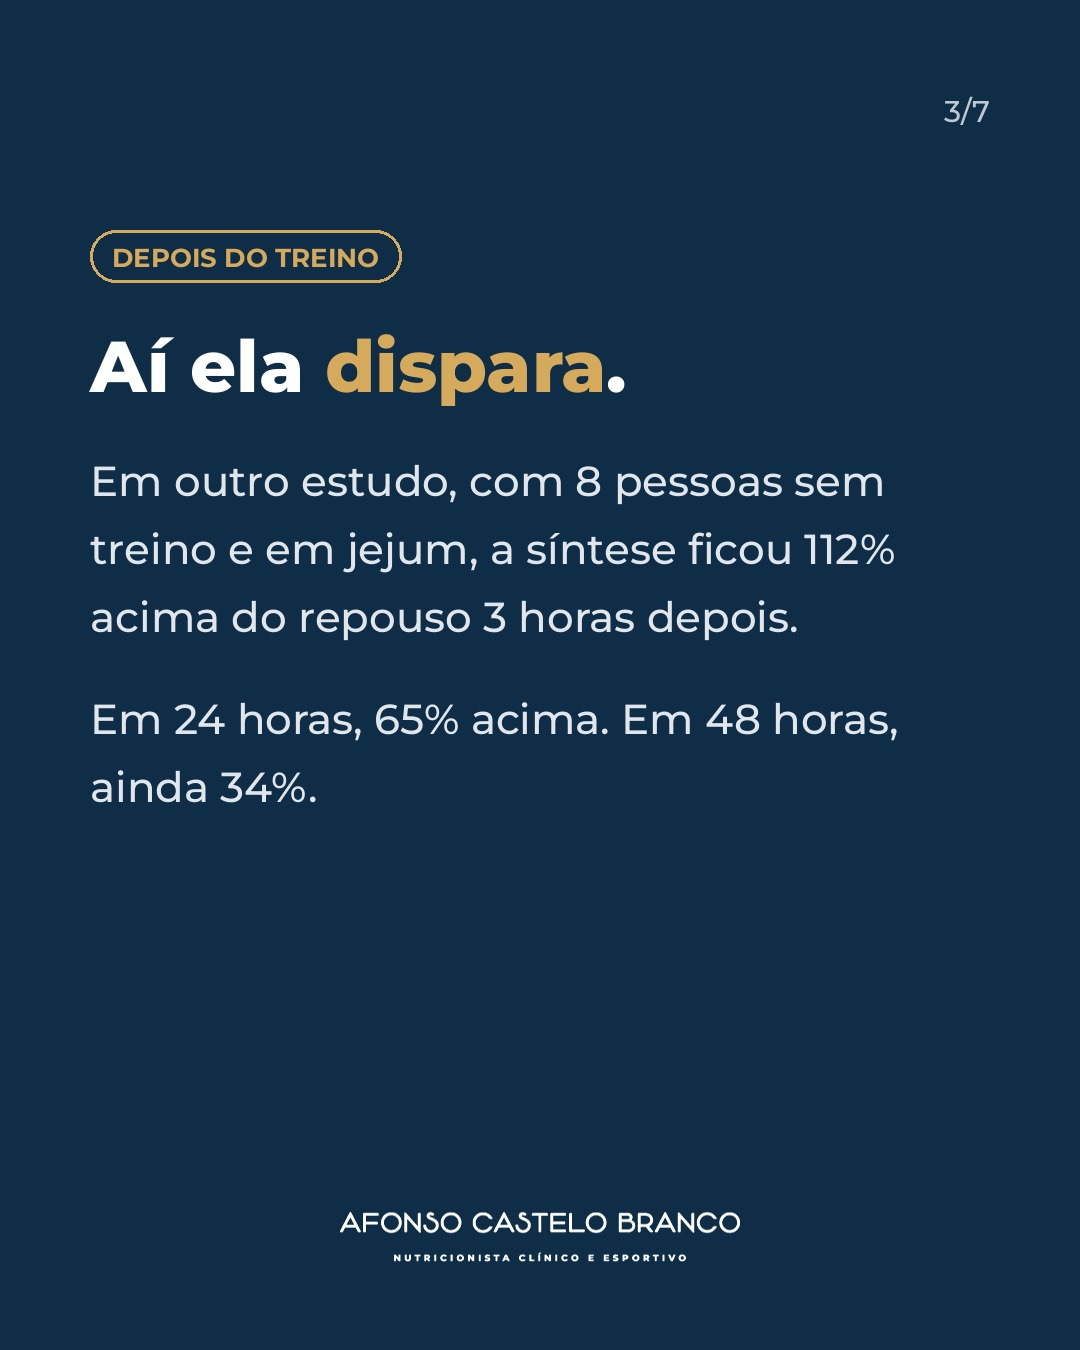
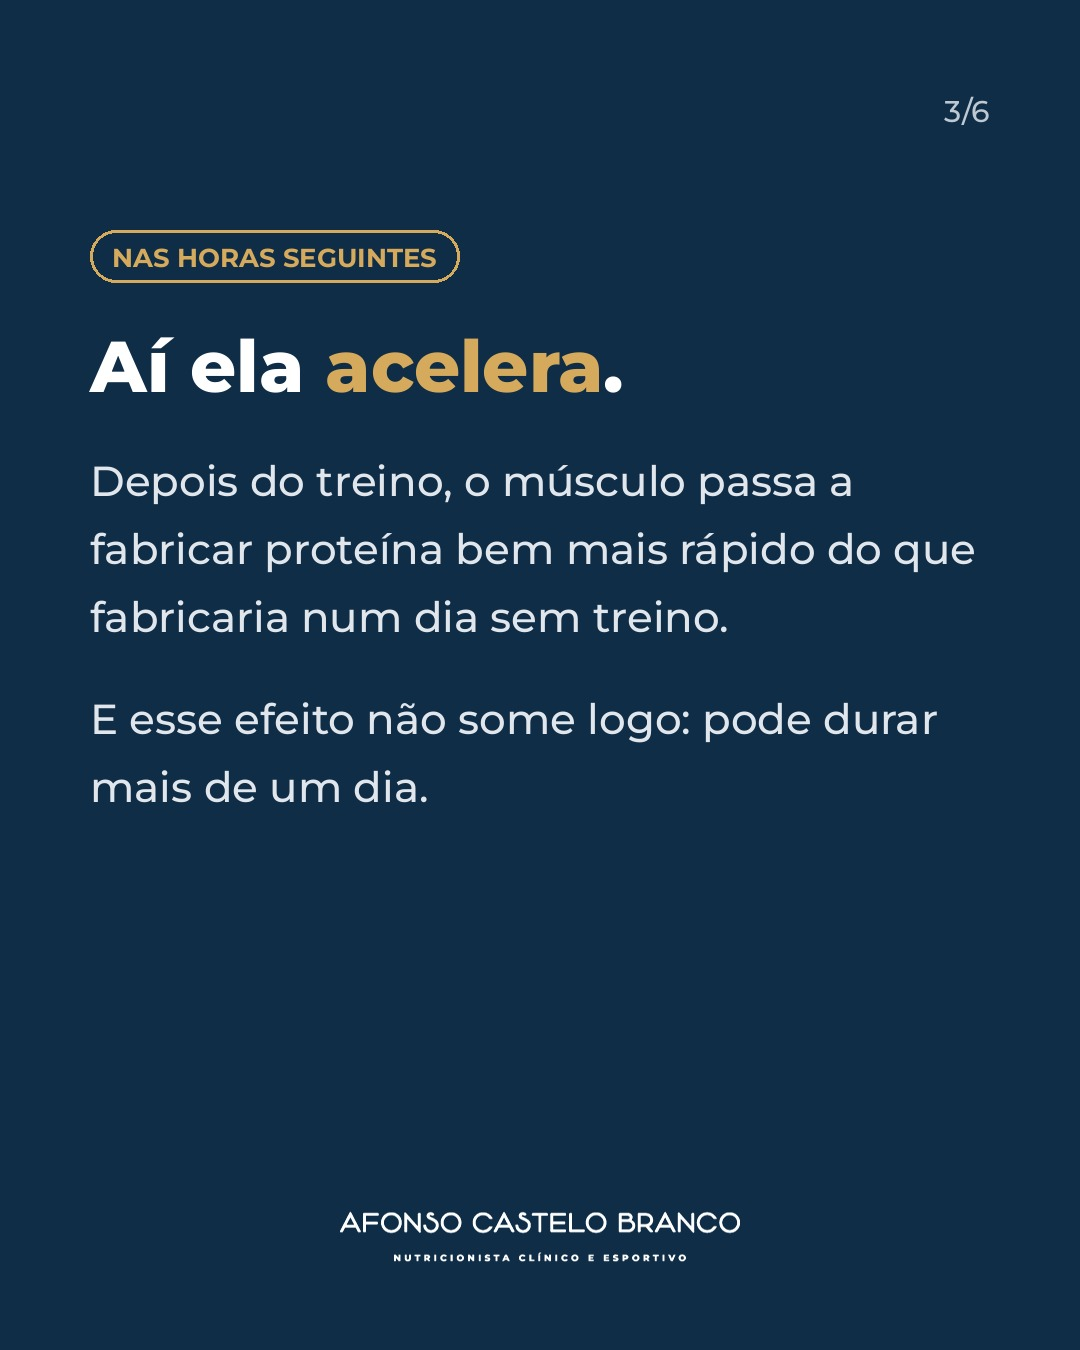
Post 2026-11-16 reescrito para público leigo; regra de slides sem citação
Claude-Session: https://claude.ai/code/session_01U8PX4XMxxh8ws1prvUJyFj

diff --git a/GUIA.md b/GUIA.md
@@ -35,6 +35,12 @@ Quando houver diferença entre os dois, vale este guia nos pontos operacionais e
 - Fim: um CTA simples e variado ("Salva pra rever depois", "Manda pra quem treina com você"), depois "Referências" com autor et al., periódico, ano e doi.org/...
 - Antes de entregar, releia em voz alta: se alguma frase soar como texto de robô ou de anúncio, reescreva.
 
+## 3b. Slides para o público leigo (pedido do Afonso)
+- Escreva os slides para quem não estuda fisiologia: frase simples, uma ideia por slide, termos técnicos explicados na hora ("aminoácidos, as peças que formam a proteína").
+- NÃO cite estudos nos slides ("num estudo com 11 adultos..."). Nada de tamanho de amostra, autor ou desenho de estudo na arte. Números só quando ajudam a entender ("cerca de um terço"), arredondados e fiéis à fonte.
+- As referências e as ressalvas de evidência (estudos divergentes, estudo pequeno, animal, in vitro) vão na LEGENDA, em linguagem simples. O último slide pode dizer "As referências estão na legenda".
+- Releia cada slide perguntando: alguém leigo entende sem reler? Se precisar reler, reescreva.
+
 ## 4. Formato do post.json (render.py)
 Tipos de slide: capa, texto, lista, imagem, final. Destaque dourado: palavras entre *asteriscos* (use com moderação: 1 a 3 palavras por slide).
 - capa: tag, titulo (curto, gancho), sub (opcional)

diff --git a/historico.md b/historico.md
@@ -3,4 +3,4 @@
 Uma linha por post, a mais recente no fim.
 Formato: AAAA-MM-DD | eixo editorial | formato | tema | status (aguardando aprovação / publicado / cancelado) | media_id ou observação
 
-2026-11-16 | Nutrição clínica esportiva e fisiologia | carrossel 7 slides | Síntese de proteína muscular durante e depois do treino | aguardando aprovação | primeiro post (teste)
+2026-11-16 | Nutrição clínica esportiva e fisiologia | carrossel 6 slides | Síntese de proteína muscular durante e depois do treino | aguardando aprovação | primeiro post (teste)
